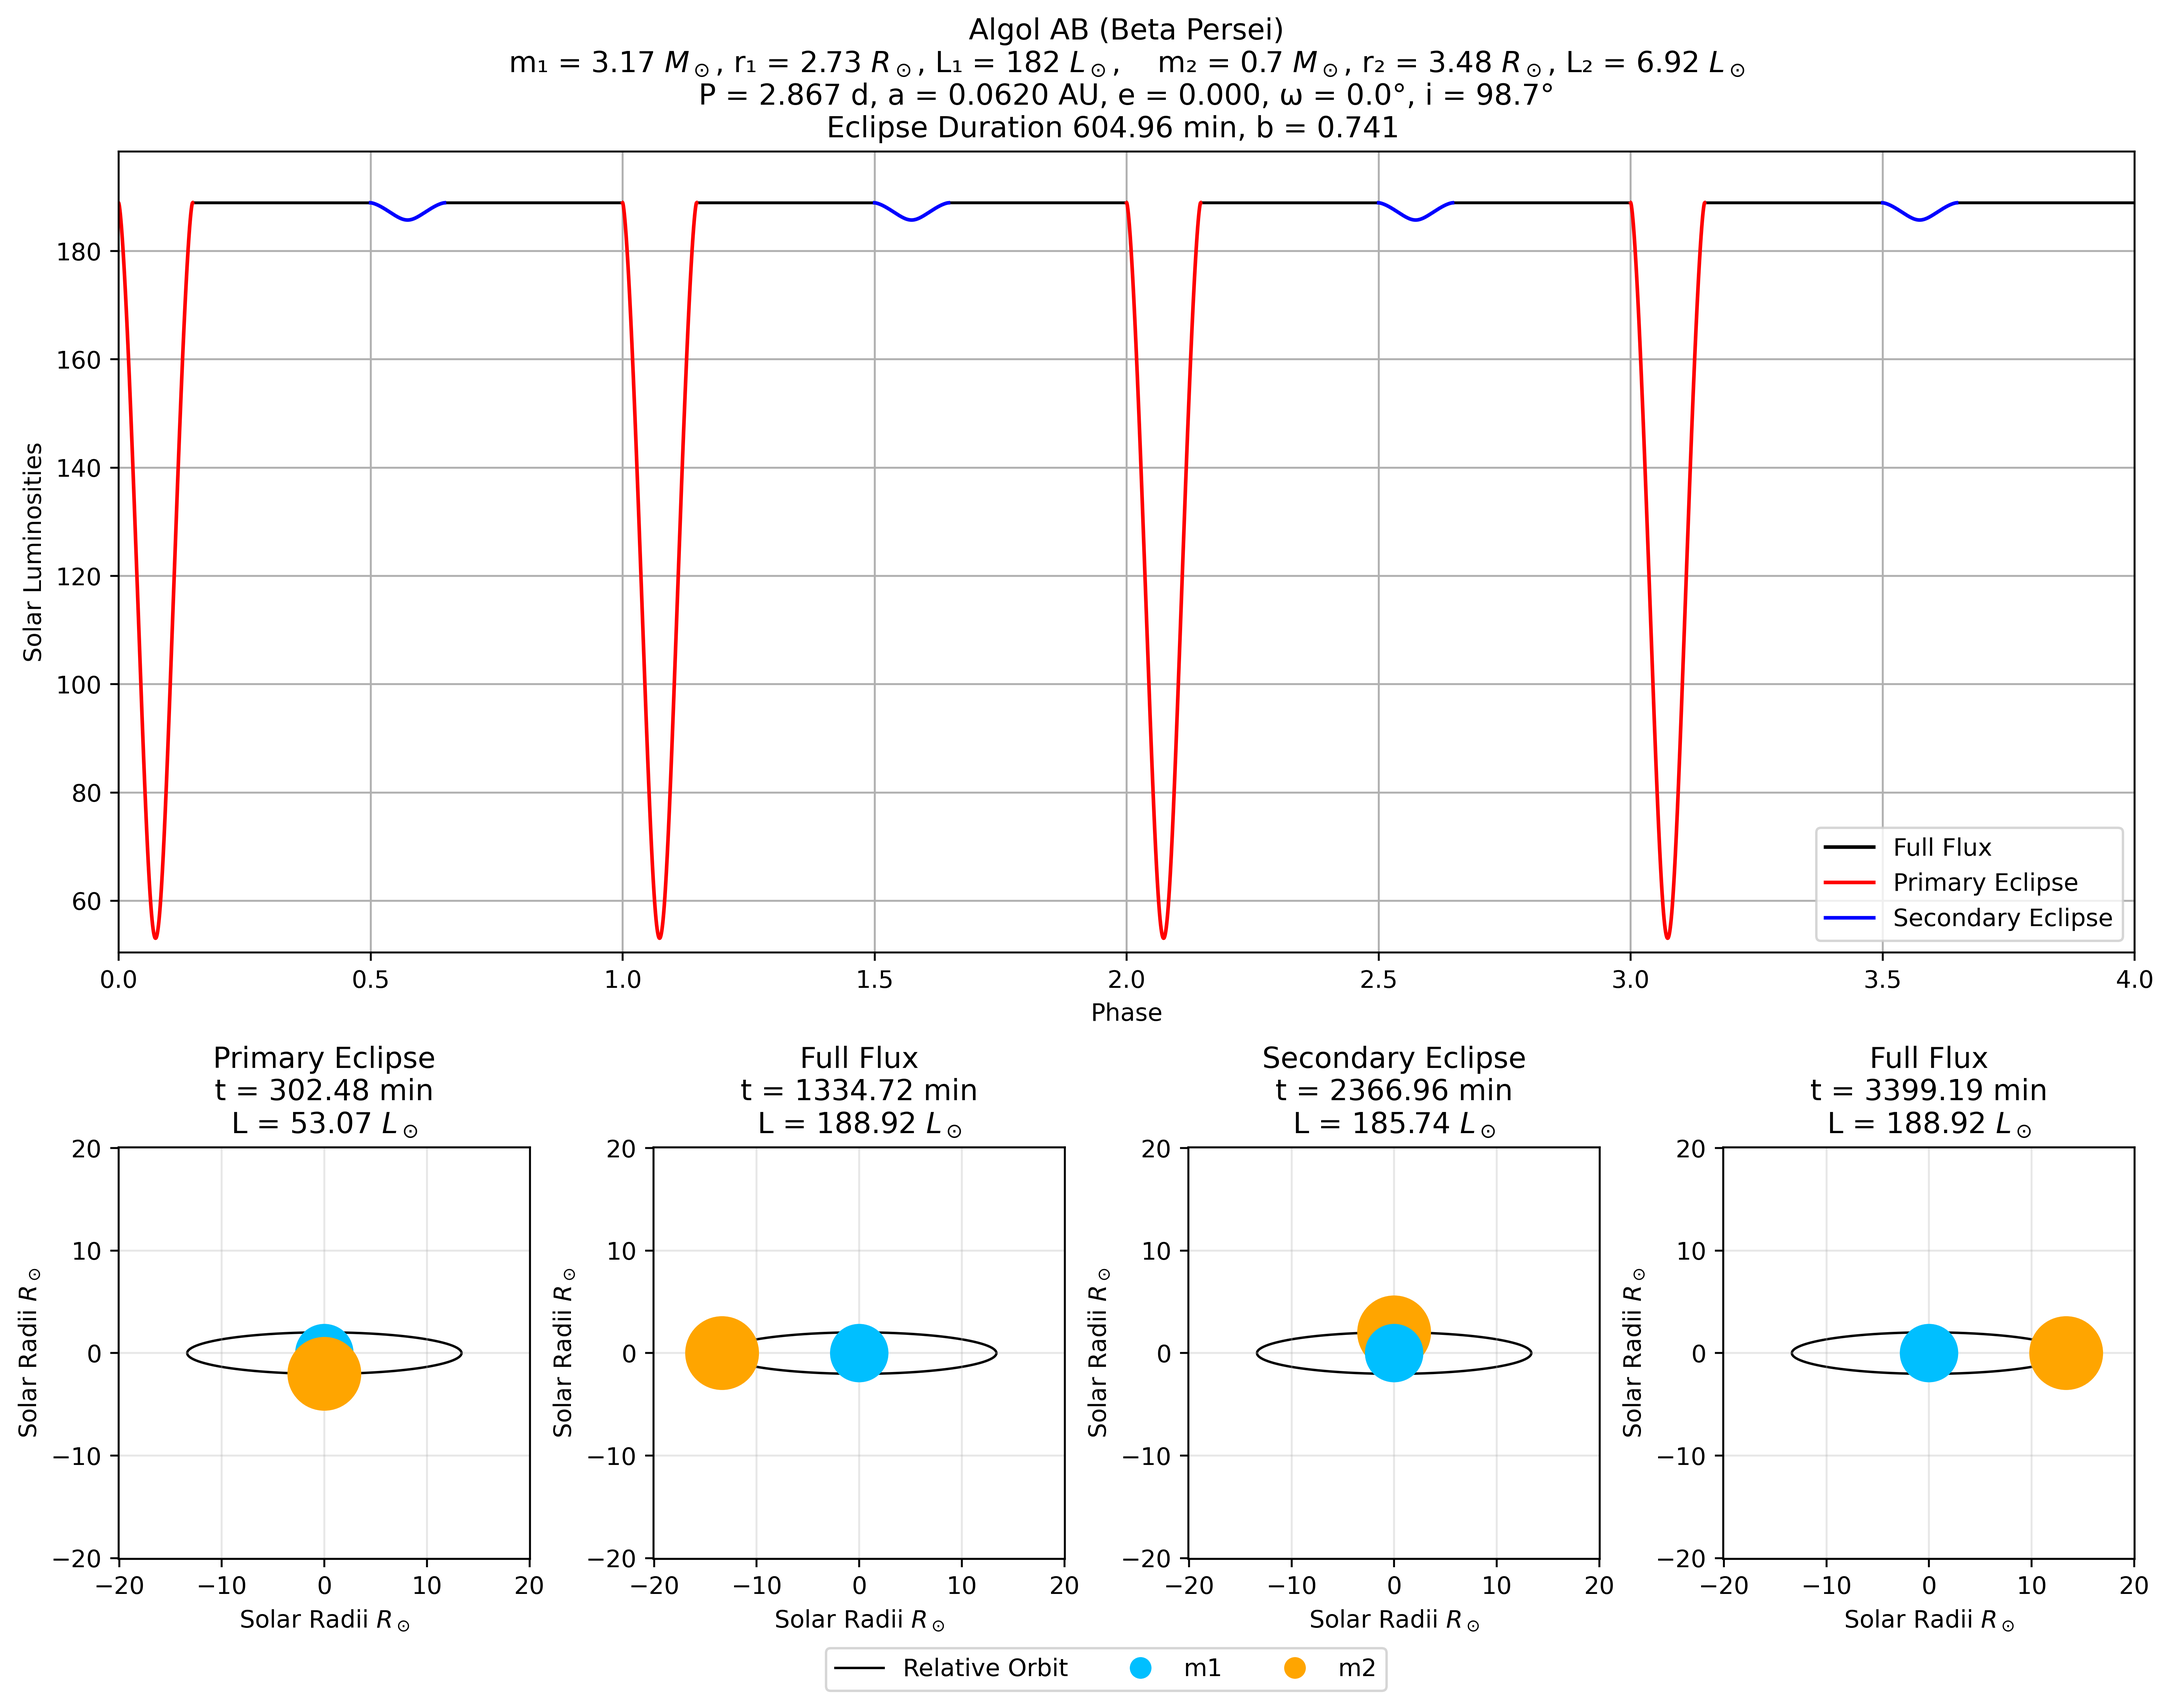
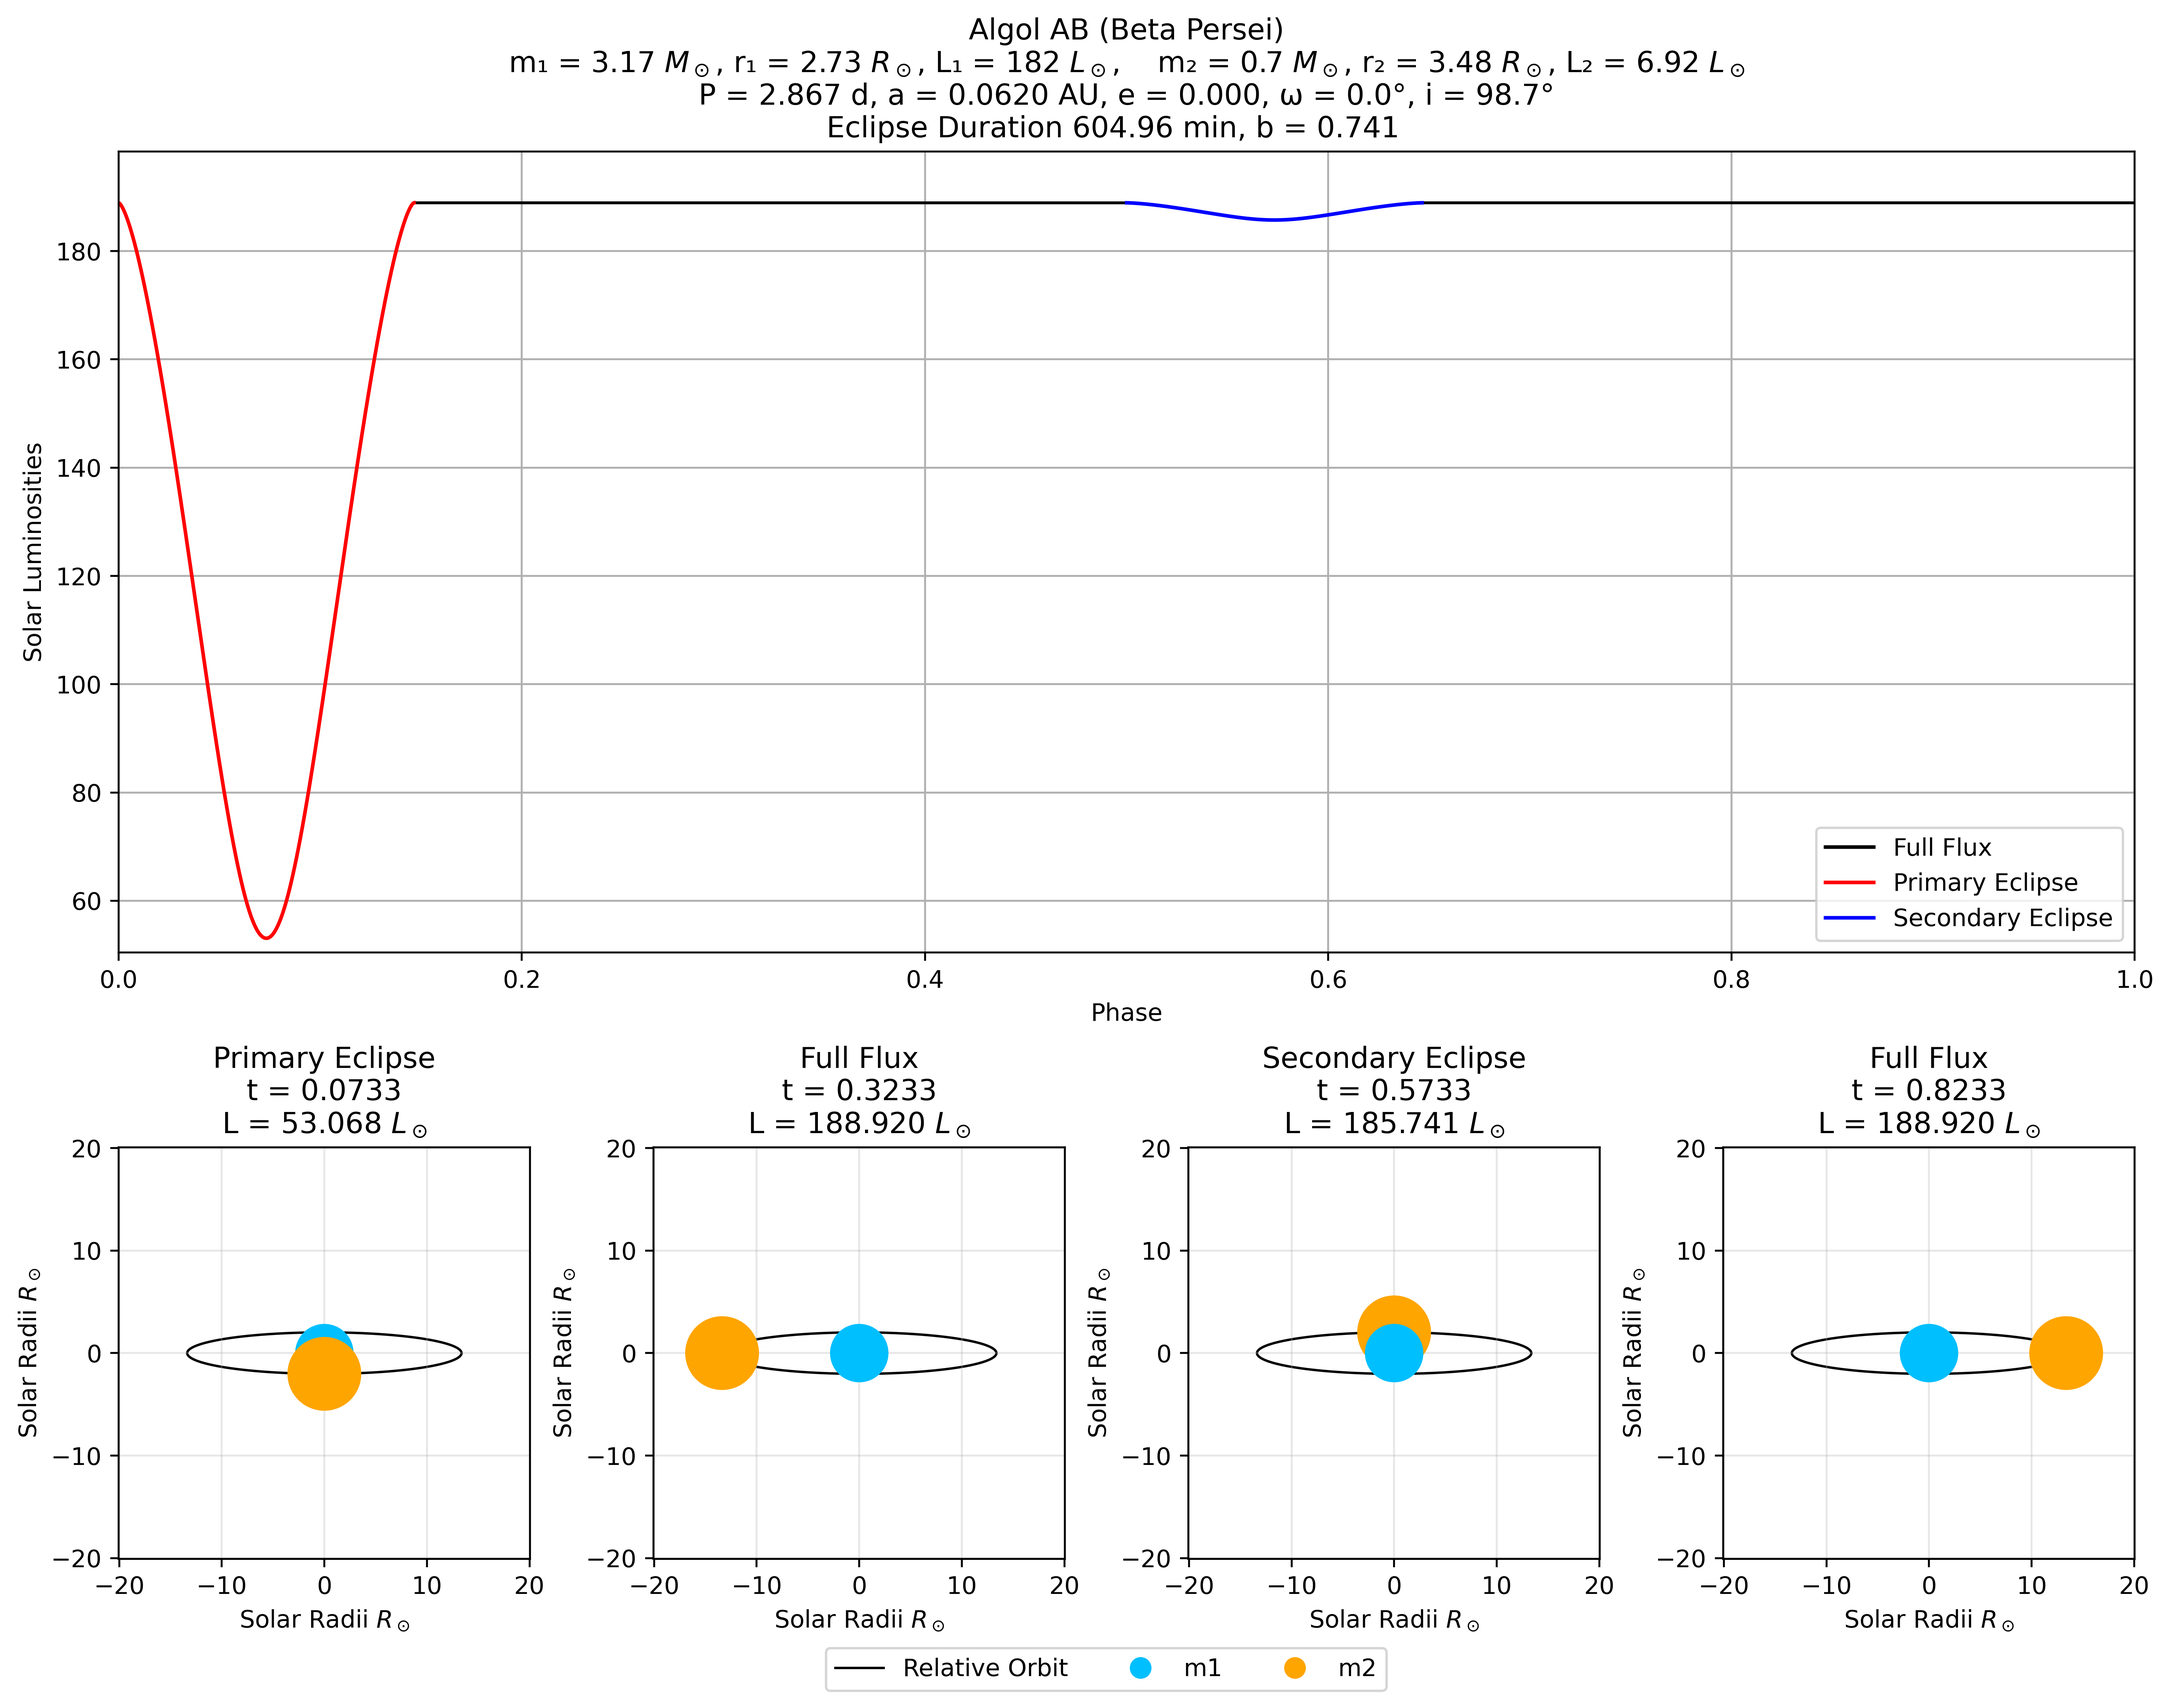
changed t = to be phase

diff --git a/LC_v5.py b/LC_v5.py
@@ -37,7 +37,7 @@ omega = 0.0        # Argument of Periastron in Deg (orientation of ellipse in or
 r_L1_color = "red"
 
 N_SAMPLES = 5 * 10**6   # Time resolution for the numerical scan (higher = smoother/sharper eclipses)
-N_PERIODS = 4        # How many consecutive periods to display on the light curve plot (>= 1)
+N_PERIODS = 1        # How many consecutive periods to display on the light curve plot (>= 1)
 
 # --------------------------------------------------
 # Derived Quantities (DO NOT CHANGE)
@@ -407,7 +407,7 @@ for ax, t_val, title in zip(panel_axes, panel_times, panel_titles):
     ax.set_ylim([-lim, lim])
     ax.set_xlabel(r"Solar Radii $R_\odot$")
     ax.set_ylabel(r"Solar Radii $R_\odot$")
-    ax.set_title(rf"{title}" + "\n" + rf"t = {t_val/60:.2f} min" + "\n" + rf"L = {L_t:.2f} $L_\odot$")
+    ax.set_title(rf"{title}" + "\n" + rf"t = {t_val/P:.4f}" + "\n" + rf"L = {L_t:.3f} $L_\odot$")
 
     ax.plot(orbit_x, orbit_y, color='black', lw=1, zorder=1)
     star1 = Circle((0, 0), r1, color=primary_color, label='m1', zorder=(2 if z_t >= 0 else 4))
